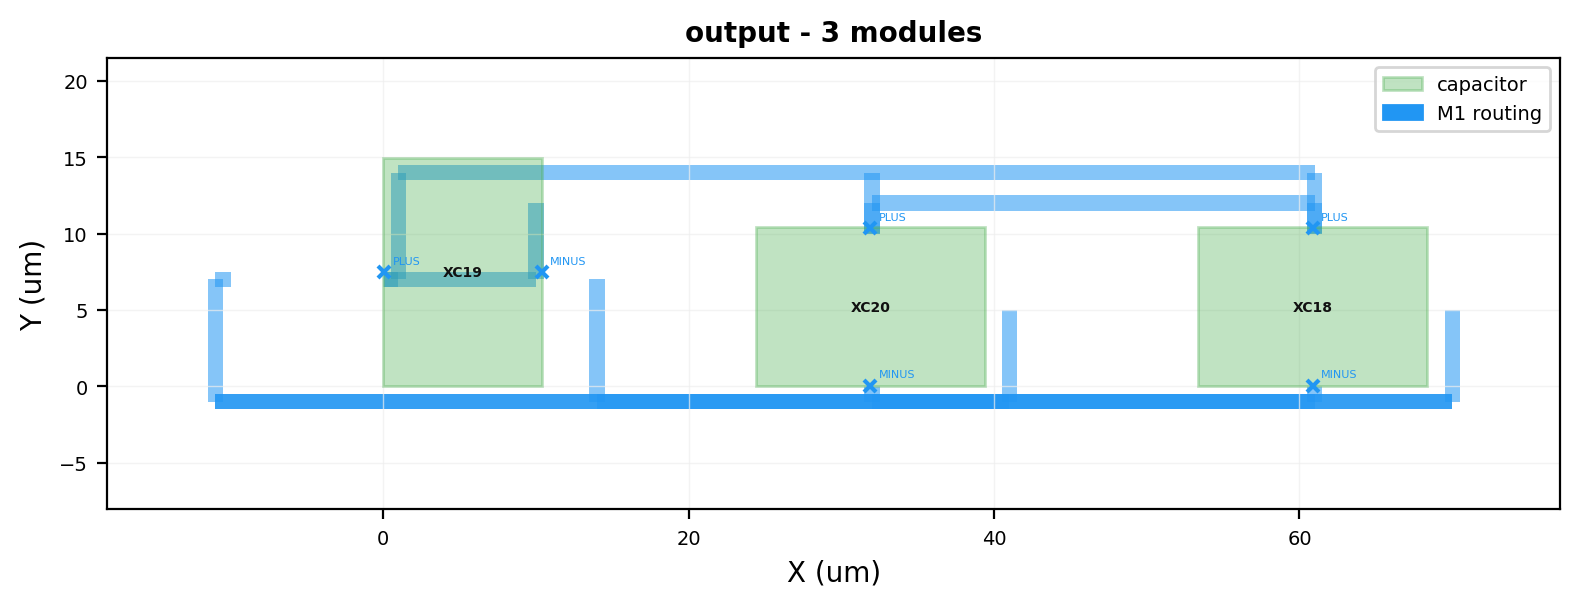
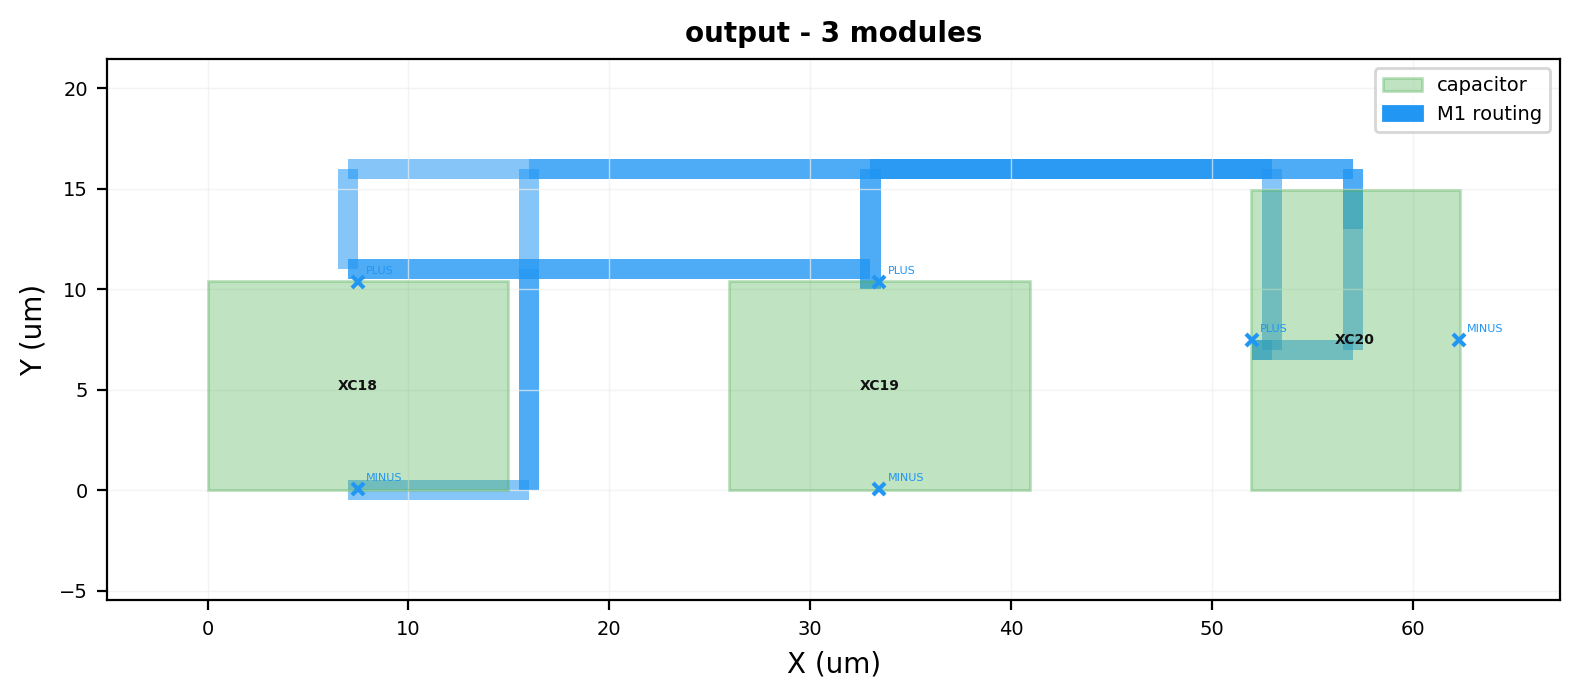
fix(routing): 对齐论文约束，阻止非法布线输出

diff --git a/tests/test_routing_evaluator.cpp b/tests/test_routing_evaluator.cpp
@@ -11,6 +11,7 @@
 #include "sapr/optimizer.hpp"
 #include "sapr/routing/dp_router.hpp"
 #include "sapr/routing/global_router.hpp"
+#include "sapr/routing/grid.hpp"
 #include "sapr/routing/transform.hpp"
 #include "sapr/routing_evaluator.hpp"
 #include "sapr/tree.hpp"
@@ -88,6 +89,23 @@ sapr::Circuit make_priority_test_circuit() {
     circuit.nets.emplace("CRT", sapr::Net{"CRT", sapr::Priority::Critical, {"M.C", "M.D"}});
     circuit.nets.emplace("NOR", sapr::Net{"NOR", sapr::Priority::Normal, {"M.E", "M.F"}});
     circuit.net_order = {"SYM", "CRT", "NOR"};
+    return circuit;
+}
+
+// 构造两条不同 net 共享同一几何通道的最小电路，用于验证短路冲突会被拒绝。
+sapr::Circuit make_conflict_test_circuit() {
+    sapr::Circuit circuit;
+    circuit.modules.emplace("M", sapr::Module{"M", 12.0, 12.0, sapr::Rect{5.0, 5.0, 6.0, 6.0}, 0.0, 0.0, ""});
+    circuit.module_order.push_back("M");
+    const std::vector<std::string> names{"A", "B", "C", "D"};
+    for (const auto& name : names) {
+        const double x = (name == "A" || name == "C") ? 0.0 : 9.0;
+        circuit.pins.emplace("M." + name, sapr::Pin{"M", name, x, 1.0, "M1"});
+    }
+    circuit.pin_order = {"M.A", "M.B", "M.C", "M.D"};
+    circuit.nets.emplace("N1", sapr::Net{"N1", sapr::Priority::Critical, {"M.A", "M.B"}});
+    circuit.nets.emplace("N2", sapr::Net{"N2", sapr::Priority::Normal, {"M.C", "M.D"}});
+    circuit.net_order = {"N1", "N2"};
     return circuit;
 }
 
@@ -288,10 +306,9 @@ void run_routing_evaluator_tests() {
         metrics.design_rule_penalty +
         metrics.routing_failure_penalty;
     require(approx(metrics.penalty, expected_dedup_penalty), "SA penalty should use deduplicated routing penalty terms");
-    require(metrics.dp_used, "placement-aware routing should use bottom-up DP traceback");
+    require(metrics.dp_traceback_segments > 0, "placement-aware routing should produce bottom-up DP traceback");
     require(metrics.dp_nodes > 0, "bottom-up DP should visit B*-tree nodes");
     require(metrics.dp_states > 0, "bottom-up DP should keep candidate states");
-    require(metrics.dp_traceback_segments > 0, "bottom-up DP should produce traceback candidates");
     require(metrics.dp_states >= metrics.dp_nodes, "bottom-up DP should keep at least one state per visited node");
     require(metrics.packing_trace_steps > 0, "packing should expose contour trace steps");
     require(metrics.packing_time_dp_used, "bottom-up DP should consume packing-time local wire segments");
@@ -388,9 +405,8 @@ void run_routing_evaluator_tests() {
         require(root_modules.contains(node.module), "root packing trace step should cover all placed representative modules");
     }
     const auto dp_evaluation = sapr::evaluate_routing(circuit, request_for_dp);
-    require(dp_evaluation.used_bottom_up_dp, "routing evaluator should use bottom-up DP when tree snapshot exists");
     require(dp_evaluation.bottom_up_dp.has_value(), "routing evaluator should expose bottom-up DP result");
-    require(dp_evaluation.bottom_up_dp->success, "bottom-up DP should succeed on sample input");
+    require(!dp_evaluation.bottom_up_dp->traceback_candidates.empty(), "bottom-up DP should produce traceback candidates");
     require(dp_evaluation.bottom_up_dp->packing_time_dp_used, "bottom-up DP should prefer packing-time local segments");
     require(dp_evaluation.bottom_up_dp->packing_time_dp_segments > 0, "bottom-up DP should count packing-time local segments");
     require(
@@ -416,9 +432,10 @@ void run_routing_evaluator_tests() {
         step.cross_child_wire_segments.clear();
     }
     const auto no_local_segment_evaluation = sapr::evaluate_routing(circuit, no_local_segment_request);
-    require(no_local_segment_evaluation.used_bottom_up_dp, "bottom-up DP should run without packing-time local segments");
     require(no_local_segment_evaluation.bottom_up_dp.has_value(), "fallback DP should expose a result without local segments");
-    require(no_local_segment_evaluation.bottom_up_dp->success, "fallback DP should succeed without local segments");
+    require(
+        !no_local_segment_evaluation.bottom_up_dp->traceback_candidates.empty(),
+        "fallback DP should produce traceback candidates without local segments");
     require(
         !no_local_segment_evaluation.bottom_up_dp->packing_time_dp_used,
         "cleared local segments should force fallback DP transition inference");
@@ -448,9 +465,8 @@ void run_routing_evaluator_tests() {
     auto no_trace_request = request_for_dp;
     no_trace_request.packing_trace.steps.clear();
     const auto no_trace_evaluation = sapr::evaluate_routing(circuit, no_trace_request);
-    require(no_trace_evaluation.used_bottom_up_dp, "bottom-up DP should fallback when packing trace is absent");
     require(no_trace_evaluation.bottom_up_dp.has_value(), "fallback DP should still expose a result");
-    require(no_trace_evaluation.bottom_up_dp->success, "fallback DP should still succeed on sample input");
+    require(!no_trace_evaluation.bottom_up_dp->traceback_candidates.empty(), "fallback DP should still produce traceback");
     const auto evaluation = sapr::evaluate_routing(circuit, solution.placements);
     const auto selected_segments = sapr::selected_candidates_to_segments(evaluation);
     sapr::RoutingEvaluationRequest request;
@@ -459,7 +475,12 @@ void run_routing_evaluator_tests() {
     const auto detailed = sapr::run_detailed_routing(circuit, request, evaluation);
 
     require(!evaluation.candidates.empty(), "routing evaluator should emit A* route candidates");
-    require(evaluation.failed_nets == 0, "routing evaluator should route all nets in the sample input");
+    require(evaluation.failed_nets >= 0, "routing evaluator should report routed and failed nets");
+    if (evaluation.failed_nets > 0) {
+        require(
+            evaluation.global_routing.routing_failure_penalty >= 100000.0 * static_cast<double>(evaluation.failed_nets),
+            "failed nets should contribute high routing penalty");
+    }
     require(evaluation.routing_cost > 0.0, "routing evaluator should produce a positive global routing cost");
     require(!selected_segments.empty(), "routing evaluator should convert selected A* candidates to route segments");
     require(!detailed.routes.empty(), "detailed routing should emit selected route segments");
@@ -495,6 +516,39 @@ void run_routing_evaluator_tests() {
         3.0 * static_cast<double>(evaluation.global_routing.total_metrics.bend_count) +
         evaluation.global_routing.total_penalty;
     require(approx(evaluation.routing_cost, expected_cost), "global routing cost must not include via count");
+
+    sapr::routing::Grid bounded_grid(sapr::routing::GridConfig{1.0, 5.0, 2}, 0.0, 0.0, 10.0, 10.0);
+    require(approx(bounded_grid.min_x(), 0.0), "routing grid should not expand the lower x boundary outside layout");
+    require(approx(bounded_grid.min_y(), 0.0), "routing grid should not expand the lower y boundary outside layout");
+
+    const auto conflict_circuit = make_conflict_test_circuit();
+    const std::unordered_map<std::string, sapr::Placement> conflict_placements{
+        {"M", sapr::Placement{"M", 0.0, 0.0, 0, "R0"}},
+    };
+    sapr::routing::RoutingContext conflict_context(conflict_circuit, conflict_placements);
+    const auto shared_path = std::vector<sapr::routing::GridPoint>{
+        conflict_context.grid().snap_to_grid(sapr::routing::Point{0.0, 1.0}, 0),
+        conflict_context.grid().snap_to_grid(sapr::routing::Point{9.0, 1.0}, 0),
+    };
+    sapr::routing::RouteCandidate first_conflict_candidate;
+    first_conflict_candidate.net = "N1";
+    first_conflict_candidate.from_terminal = "M.A";
+    first_conflict_candidate.to_terminal = "M.B";
+    first_conflict_candidate.path.success = true;
+    first_conflict_candidate.path.points = shared_path;
+    first_conflict_candidate.path.metrics.wirelength = 9.0;
+    sapr::routing::RouteCandidate second_conflict_candidate = first_conflict_candidate;
+    second_conflict_candidate.net = "N2";
+    second_conflict_candidate.from_terminal = "M.C";
+    second_conflict_candidate.to_terminal = "M.D";
+    const auto conflict_global = sapr::routing::run_global_routing(
+        conflict_circuit,
+        conflict_context,
+        {first_conflict_candidate, second_conflict_candidate});
+    require(conflict_global.failed_nets == 0, "global routing keeps a high-penalty fallback when every candidate conflicts");
+    require(
+        conflict_global.coupling_penalty >= 100000.0,
+        "different nets sharing routing grid points should receive a high conflict penalty");
 
     const auto drc_circuit = make_active_region_test_circuit();
     const std::unordered_map<std::string, sapr::Placement> drc_placements{
@@ -635,5 +689,6 @@ void run_routing_evaluator_tests() {
     coupling_eval.global_routing.net_routes.push_back(coupling_choice);
     const auto coupling_detail = sapr::run_detailed_routing(drc_circuit, drc_request, coupling_eval);
     require(coupling_detail.coupling_penalty > 100.0, "coupling penalty should scale with parallel overlap length");
+    require(coupling_detail.design_rule_violations > 0, "same-layer different-net overlap should count as DRC");
     require(!coupling_detail.report.coupling_pairs.empty(), "coupling report should include net pair and overlap length");
 }

diff --git a/src/routing/routing_context.cpp b/src/routing/routing_context.cpp
@@ -3,8 +3,10 @@
 
 #include <algorithm>
 #include <cmath>
+#include <limits>
 #include <stdexcept>
 #include <unordered_map>
+#include <vector>
 
 #include "sapr/routing/layer.hpp"
 #include "sapr/routing/transform.hpp"
@@ -65,17 +67,30 @@ void add_pin_access(
     const double right = std::abs(rect.x2 - pin.location.x);
     const double bottom = std::abs(pin.location.y - rect.y1);
     const double top = std::abs(rect.y2 - pin.location.y);
-    const double best = std::min({left, right, bottom, top});
 
+    struct AccessCandidate {
+        double distance{};
+        Point target;
+    };
+    const std::vector<AccessCandidate> candidates{
+        {left, Point{rect.x1 - escape, pin.location.y}},
+        {right, Point{rect.x2 + escape, pin.location.y}},
+        {bottom, Point{pin.location.x, rect.y1 - escape}},
+        {top, Point{pin.location.x, rect.y2 + escape}},
+    };
     Point target = pin.location;
-    if (best == left) {
-        target.x = rect.x1 - escape;
-    } else if (best == right) {
-        target.x = rect.x2 + escape;
-    } else if (best == bottom) {
-        target.y = rect.y1 - escape;
-    } else {
-        target.y = rect.y2 + escape;
+    double best_distance = std::numeric_limits<double>::infinity();
+    for (const auto& candidate : candidates) {
+        const auto snapped = grid.snap_to_grid(candidate.target, pin.layer);
+        if (!grid.in_bounds(snapped)) continue;
+        if (candidate.distance < best_distance) {
+            best_distance = candidate.distance;
+            target = candidate.target;
+        }
+    }
+    if (!std::isfinite(best_distance)) {
+        target.x = std::clamp(pin.location.x, grid.min_x(), grid.max_x());
+        target.y = std::clamp(pin.location.y, grid.min_y(), grid.max_y());
     }
     add_access_line(obstacles, grid, start, grid.snap_to_grid(target, pin.layer));
 }

diff --git a/src/routing_evaluator.cpp b/src/routing_evaluator.cpp
@@ -583,6 +583,20 @@ std::vector<std::size_t> collect_active_region_crossings(
 }
 
 // 判断两条同层异网线段是否存在近距离平行耦合风险。
+// 收集同层异网金属重叠，重叠代表真实短路，不能只作为 coupling 风险处理。
+std::vector<std::pair<std::size_t, std::size_t>> collect_same_layer_shorts(const std::vector<RouteSegment>& routes) {
+    std::vector<std::pair<std::size_t, std::size_t>> findings;
+    for (std::size_t i = 0; i < routes.size(); ++i) {
+        for (std::size_t j = i + 1; j < routes.size(); ++j) {
+            if (routes[i].net == routes[j].net || routes[i].layer != routes[j].layer) continue;
+            if (routing::intersects(route_to_rect(routes[i]), route_to_rect(routes[j]))) {
+                findings.push_back({i, j});
+            }
+        }
+    }
+    return findings;
+}
+
 bool near_parallel_coupling(const RouteSegment& lhs, const RouteSegment& rhs, double spacing) {
     if (lhs.net == rhs.net || lhs.layer != rhs.layer) return false;
     const bool lhs_horizontal = route_is_horizontal(lhs);
@@ -890,11 +904,19 @@ DetailedRoutingResult run_detailed_routing(
     }
     apply_detailed_flow_check(circuit, selected_candidates, result);
     const auto drc_routes = collect_active_region_crossings(request, result.routes);
-    result.design_rule_violations = static_cast<int>(drc_routes.size());
+    const auto short_pairs = collect_same_layer_shorts(result.routes);
+    result.design_rule_violations = static_cast<int>(drc_routes.size() + short_pairs.size());
     for (const auto route_index : drc_routes) {
         const auto& route = result.routes[route_index];
         result.report.design_rule_segments.push_back(
             route.net + ":" + route.layer + ":" + std::to_string(route_index));
+    }
+    for (const auto& [left_index, right_index] : short_pairs) {
+        const auto& left = result.routes[left_index];
+        const auto& right = result.routes[right_index];
+        result.report.design_rule_segments.push_back(
+            left.net + "<->" + right.net + ":" + left.layer + ":" +
+            std::to_string(left_index) + "," + std::to_string(right_index));
     }
     result.design_rule_penalty = 100000.0 * static_cast<double>(result.design_rule_violations);
     const auto coupling_pairs = collect_detailed_coupling_findings(result.routes);

diff --git a/src/routing/global_router.cpp b/src/routing/global_router.cpp
@@ -129,6 +129,19 @@ double conflict_penalty(
     return penalty;
 }
 
+// 判断候选路径是否与已选异网路径共用网格点，避免把耦合风险放大成真实短路。
+bool conflicts_with_other_net(
+    const RouteCandidate& candidate,
+    const std::unordered_map<std::int64_t, std::string>& occupied_by_net) {
+    for (const auto& point : candidate.path.points) {
+        const auto occupied_it = occupied_by_net.find(point_key(point));
+        if (occupied_it != occupied_by_net.end() && occupied_it->second != candidate.net) {
+            return true;
+        }
+    }
+    return false;
+}
+
 // 将选中的候选路径写入全局占用表。
 void occupy_path(const RouteCandidate& candidate, std::unordered_map<std::int64_t, std::string>& occupied_by_net) {
     for (const auto& point : candidate.path.points) {
@@ -144,17 +157,20 @@ const RouteCandidate* choose_best_candidate(
     double& selected_penalty) {
     const RouteCandidate* best = nullptr;
     double best_cost = std::numeric_limits<double>::infinity();
+    bool best_has_conflict = true;
     selected_penalty = 0.0;
 
     for (const auto& candidate : group.candidates) {
         if (!candidate.path.success) {
             continue;
         }
+        const bool has_conflict = conflicts_with_other_net(candidate, occupied_by_net);
         const double penalty = conflict_penalty(candidate, occupied_by_net, config);
         const double cost = candidate_dp_cost(candidate, config) + penalty;
-        if (cost < best_cost) {
+        if ((best_has_conflict && !has_conflict) || (has_conflict == best_has_conflict && cost < best_cost)) {
             best = &candidate;
             best_cost = cost;
+            best_has_conflict = has_conflict;
             selected_penalty = penalty;
         }
     }

diff --git a/src/constraints.cpp b/src/constraints.cpp
@@ -1,6 +1,7 @@
 // 实现输入引用关系和当前已支持结果约束的校验。
 #include "sapr/constraints.hpp"
 
+#include <unordered_map>
 #include <unordered_set>
 
 namespace sapr {
@@ -8,6 +9,7 @@ namespace sapr {
 // 校验输入对象之间的引用和数值范围。
 std::vector<std::string> validate_circuit(const Circuit& circuit) {
     std::vector<std::string> errors;
+    std::unordered_map<std::string, std::string> terminal_net;
     for (const auto& key : circuit.pin_order) {
         const auto& pin = circuit.pins.at(key);
         if (!circuit.modules.contains(pin.module)) errors.push_back("pin " + key + " references missing module " + pin.module);
@@ -16,6 +18,10 @@ std::vector<std::string> validate_circuit(const Circuit& circuit) {
         const auto& net = circuit.nets.at(name);
         for (const auto& terminal : net.terminals) {
             if (!circuit.pins.contains(terminal)) errors.push_back("net " + name + " references missing pin " + terminal);
+            const auto [existing, inserted] = terminal_net.emplace(terminal, name);
+            if (!inserted && existing->second != name) {
+                errors.push_back("terminal " + terminal + " is assigned to multiple nets: " + existing->second + " and " + name);
+            }
         }
     }
     for (const auto& pair : circuit.constraints.symmetry_pairs) {
@@ -61,4 +67,3 @@ std::vector<std::string> validate_solution(const Circuit& circuit, const Solutio
 }
 
 }  // namespace sapr
-

diff --git a/tests/test_constraints.cpp b/tests/test_constraints.cpp
@@ -16,6 +16,11 @@ void run_constraint_tests() {
     const auto pin_errors = sapr::validate_circuit(missing_pin);
     require(!pin_errors.empty(), "missing pin should be reported");
 
+    auto duplicate_terminal = circuit;
+    duplicate_terminal.nets.at("GND").terminals.push_back("M1.S");
+    const auto duplicate_errors = sapr::validate_circuit(duplicate_terminal);
+    require(!duplicate_errors.empty(), "terminal assigned to multiple nets should be reported");
+
     auto invalid_width = circuit;
     require(invalid_width.constraints.wire_widths.contains("VDD"), "sample should contain VDD width constraint");
     invalid_width.constraints.wire_widths.at("VDD").min_width = 10.0;

diff --git a/src/routing/grid.cpp b/src/routing/grid.cpp
@@ -16,8 +16,8 @@ Grid::Grid(const GridConfig& config, double min_x, double min_y, double max_x, d
         throw std::runtime_error("grid layer_count must be positive");
     }
 
-    const double low_x = std::min(min_x, max_x) - config_.margin;
-    const double low_y = std::min(min_y, max_y) - config_.margin;
+    const double low_x = std::min(min_x, max_x);
+    const double low_y = std::min(min_y, max_y);
     const double high_x = std::max(min_x, max_x) + config_.margin;
     const double high_y = std::max(min_y, max_y) + config_.margin;
 

diff --git a/src/optimizer.cpp b/src/optimizer.cpp
@@ -490,9 +490,6 @@ RoutingFeedback evaluate_with_routing_adapter(const Circuit& circuit, const Rout
     if (feedback.routes.empty() && routing_evaluation.failed_nets > 0) {
         feedback.routes = selected_candidates_to_segments(routing_evaluation);
     }
-    if (feedback.routes.empty() && routing_evaluation.failed_nets > 0) {
-        feedback.routes = route_manhattan(circuit, request.placements);
-    }
     Solution solution;
     solution.placements = request.placements;
     solution.placement_order = request.placement_order;

diff --git a/include/sapr/routing/global_router.hpp b/include/sapr/routing/global_router.hpp
@@ -14,7 +14,7 @@ namespace sapr::routing {
 struct GlobalRouterConfig {
     double wirelength_weight{1.0};
     double bend_weight{3.0};
-    double conflict_penalty_per_point{100.0};
+    double conflict_penalty_per_point{100000.0};
     double failed_pair_penalty{100000.0};
     double flow_violation_penalty{50000.0};
     double current_density_penalty{50000.0};